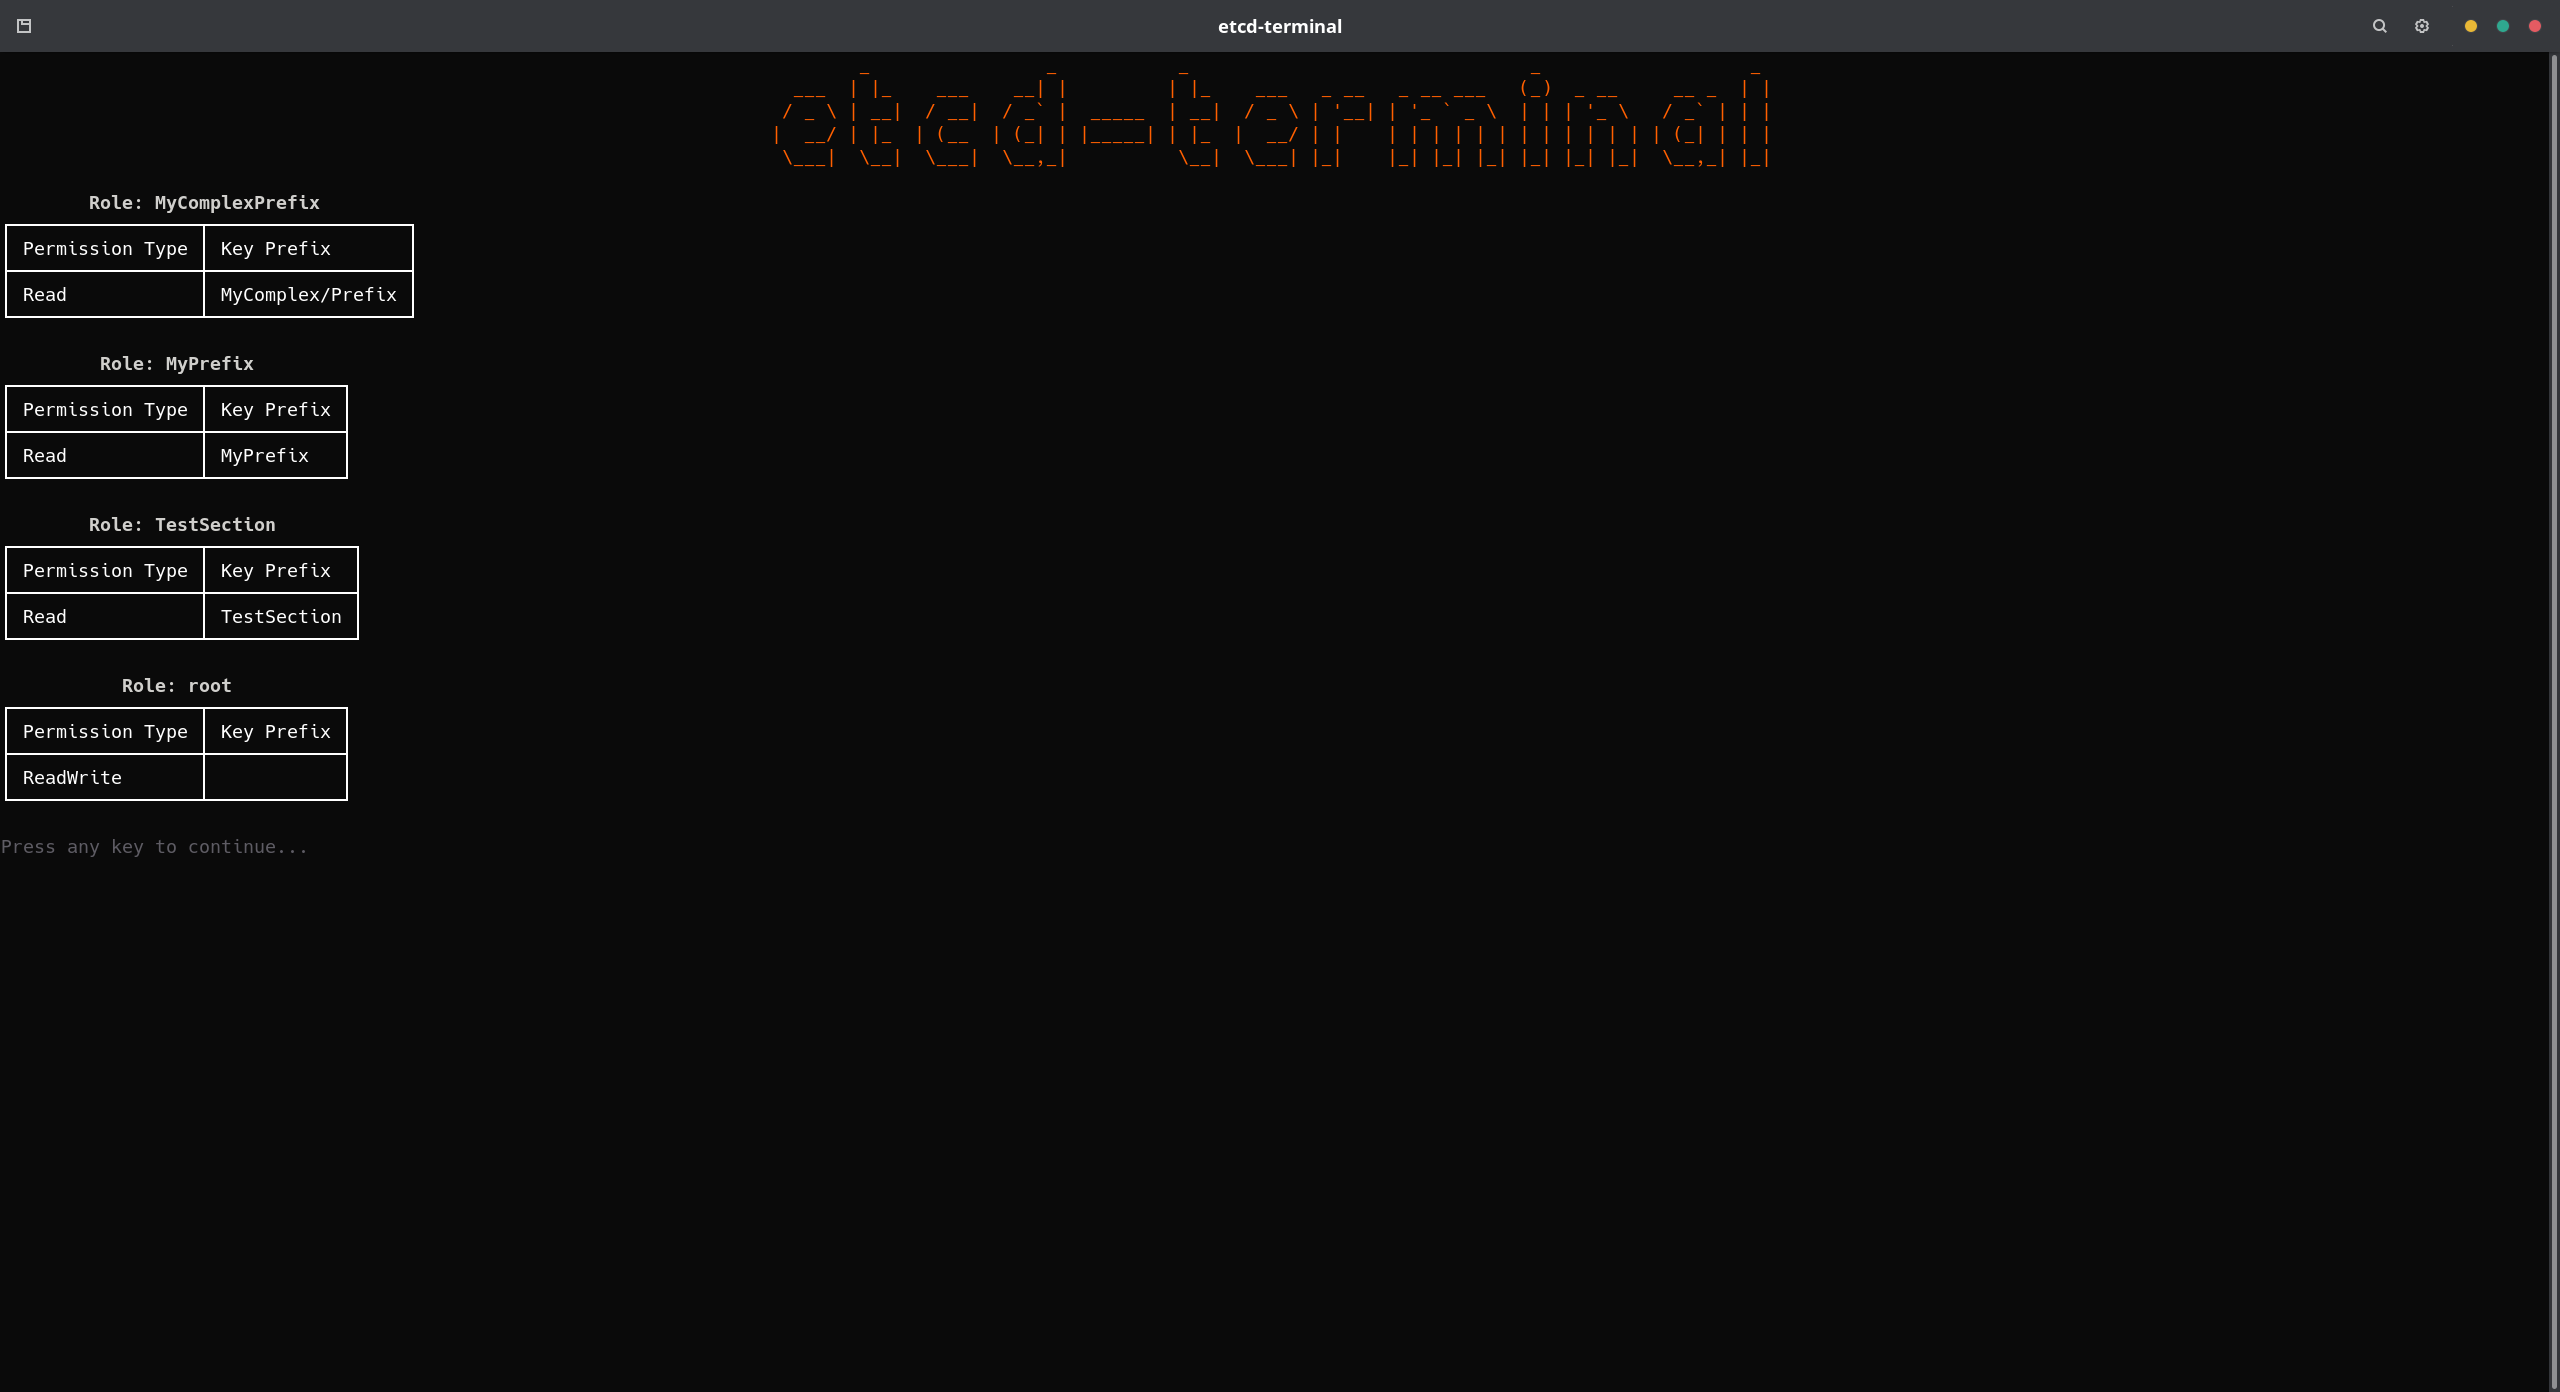
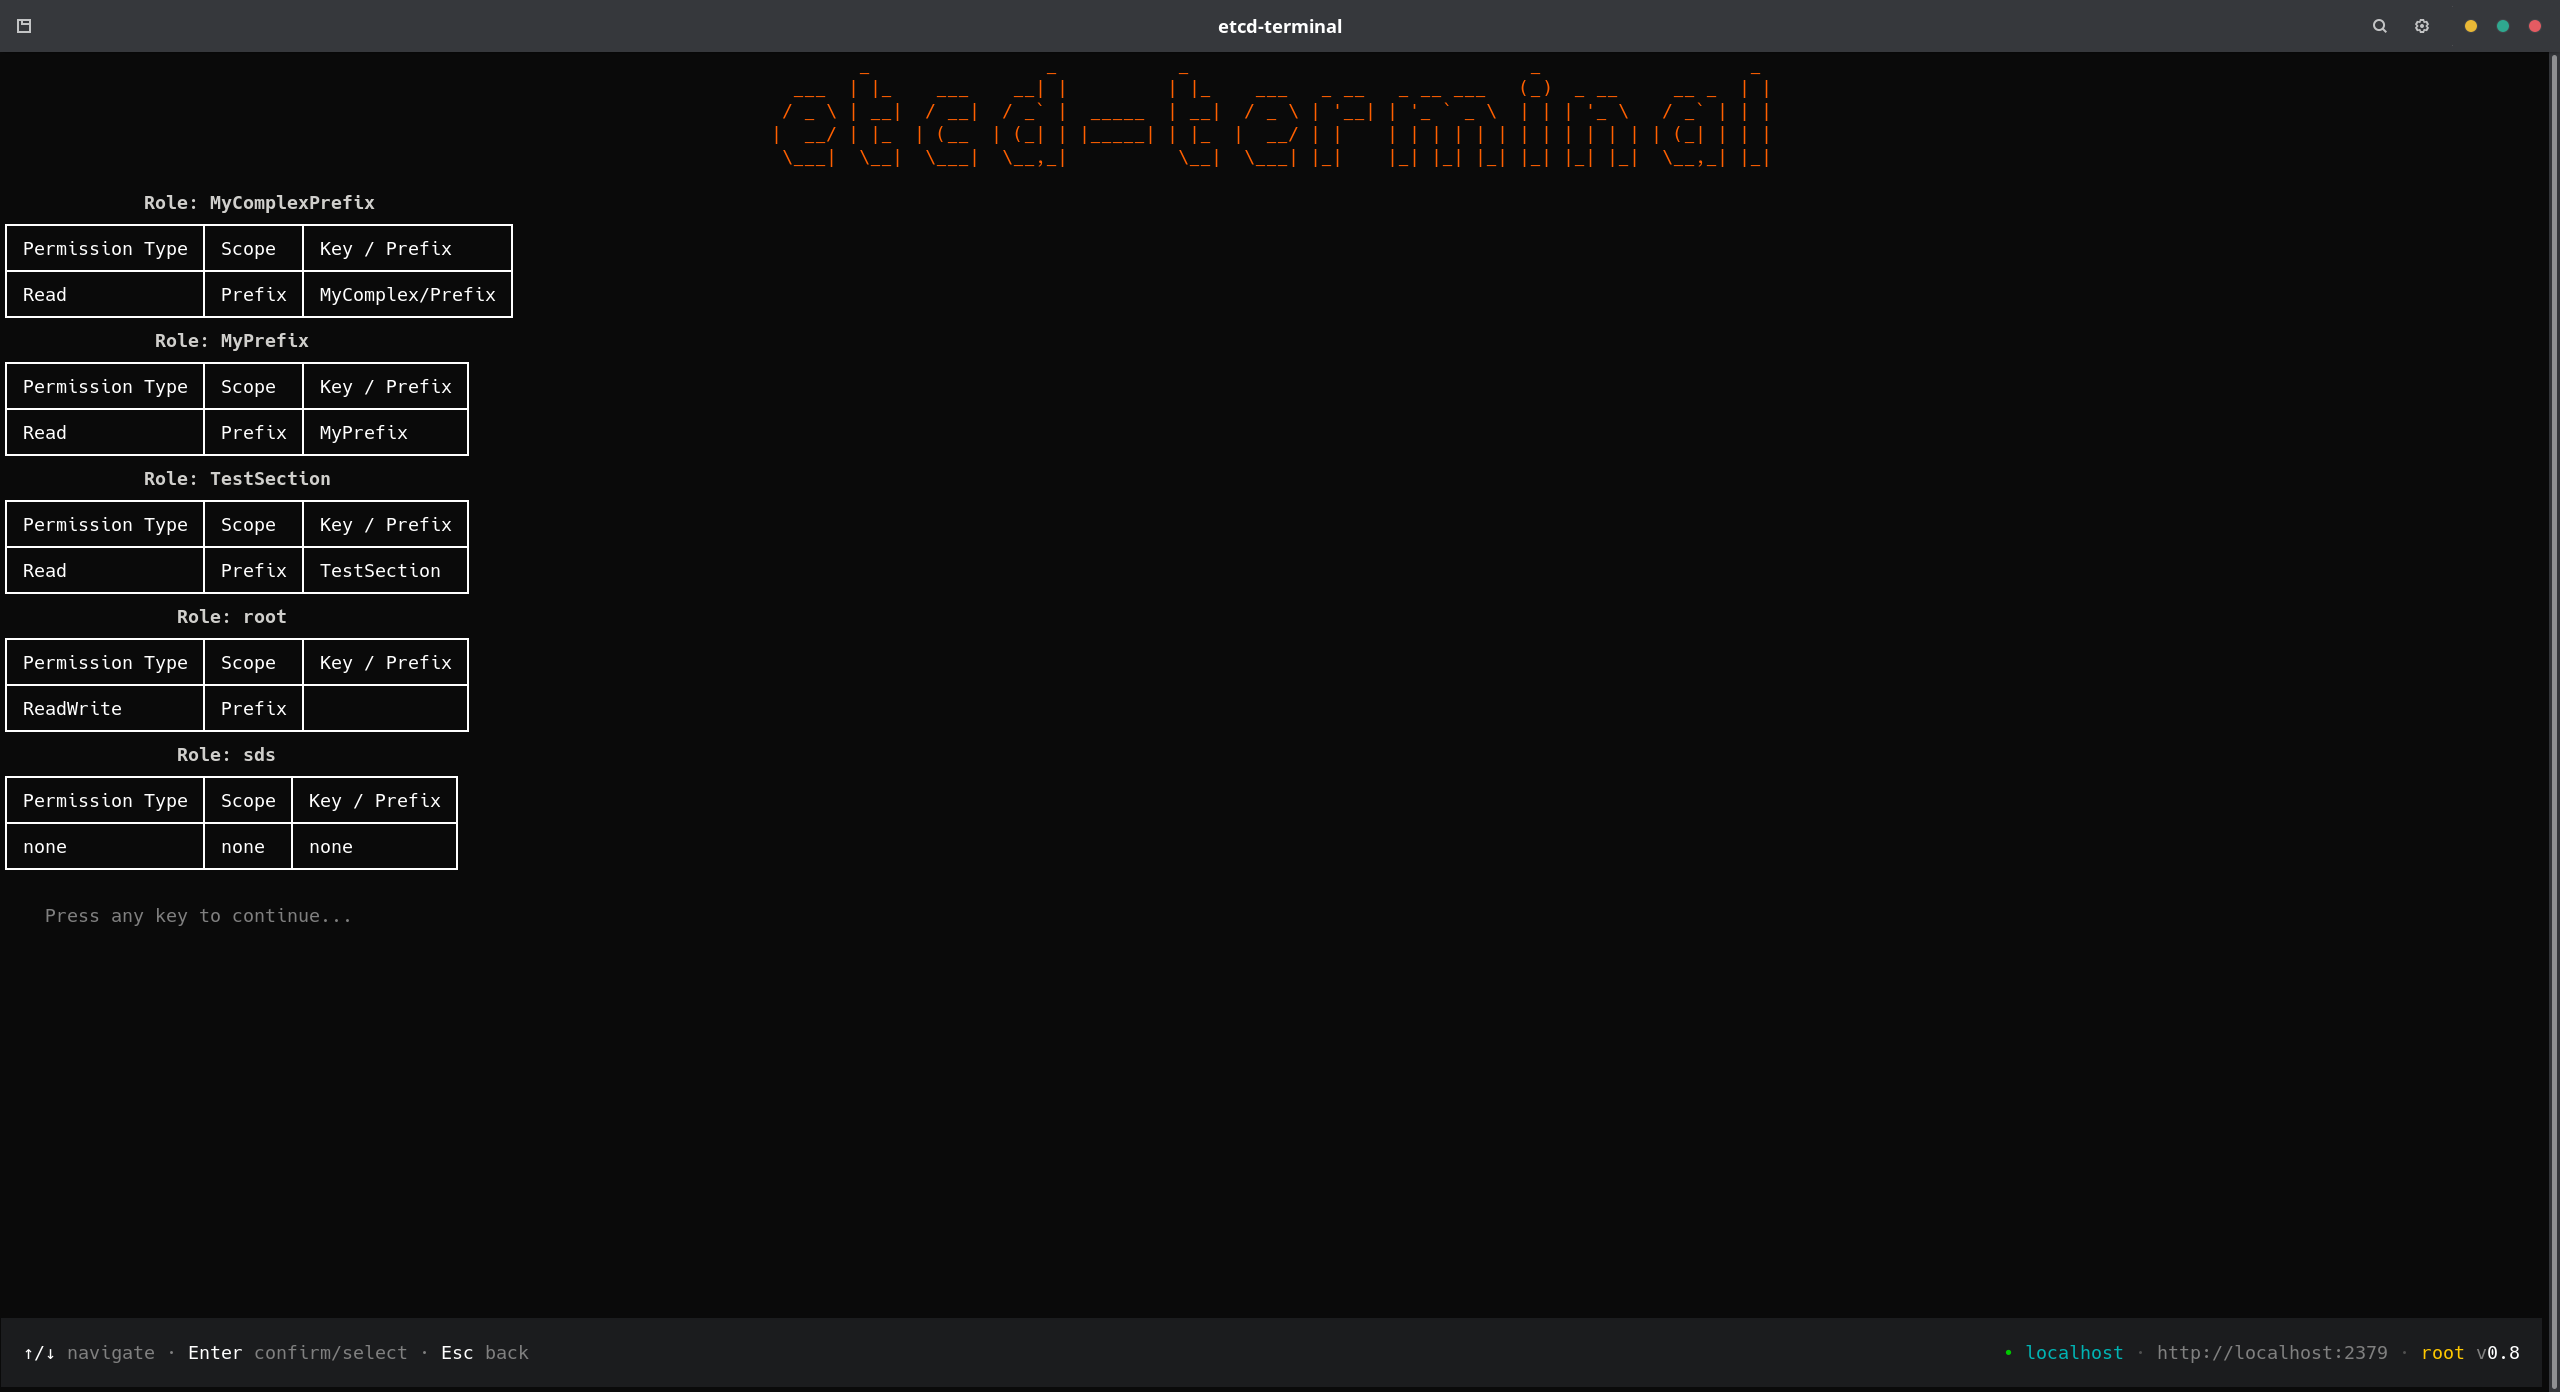
[edit] screenshots update [add] main menu screenshot

diff --git a/README.md b/README.md
@@ -34,6 +34,10 @@
 
 ![Instance selection](screenshots/instance-selection.png)
 
+### Main menu
+
+![Main menu](screenshots/main-menu.png)
+
 ### Key browse
 
 ![Key browse](screenshots/key-browse.png)
